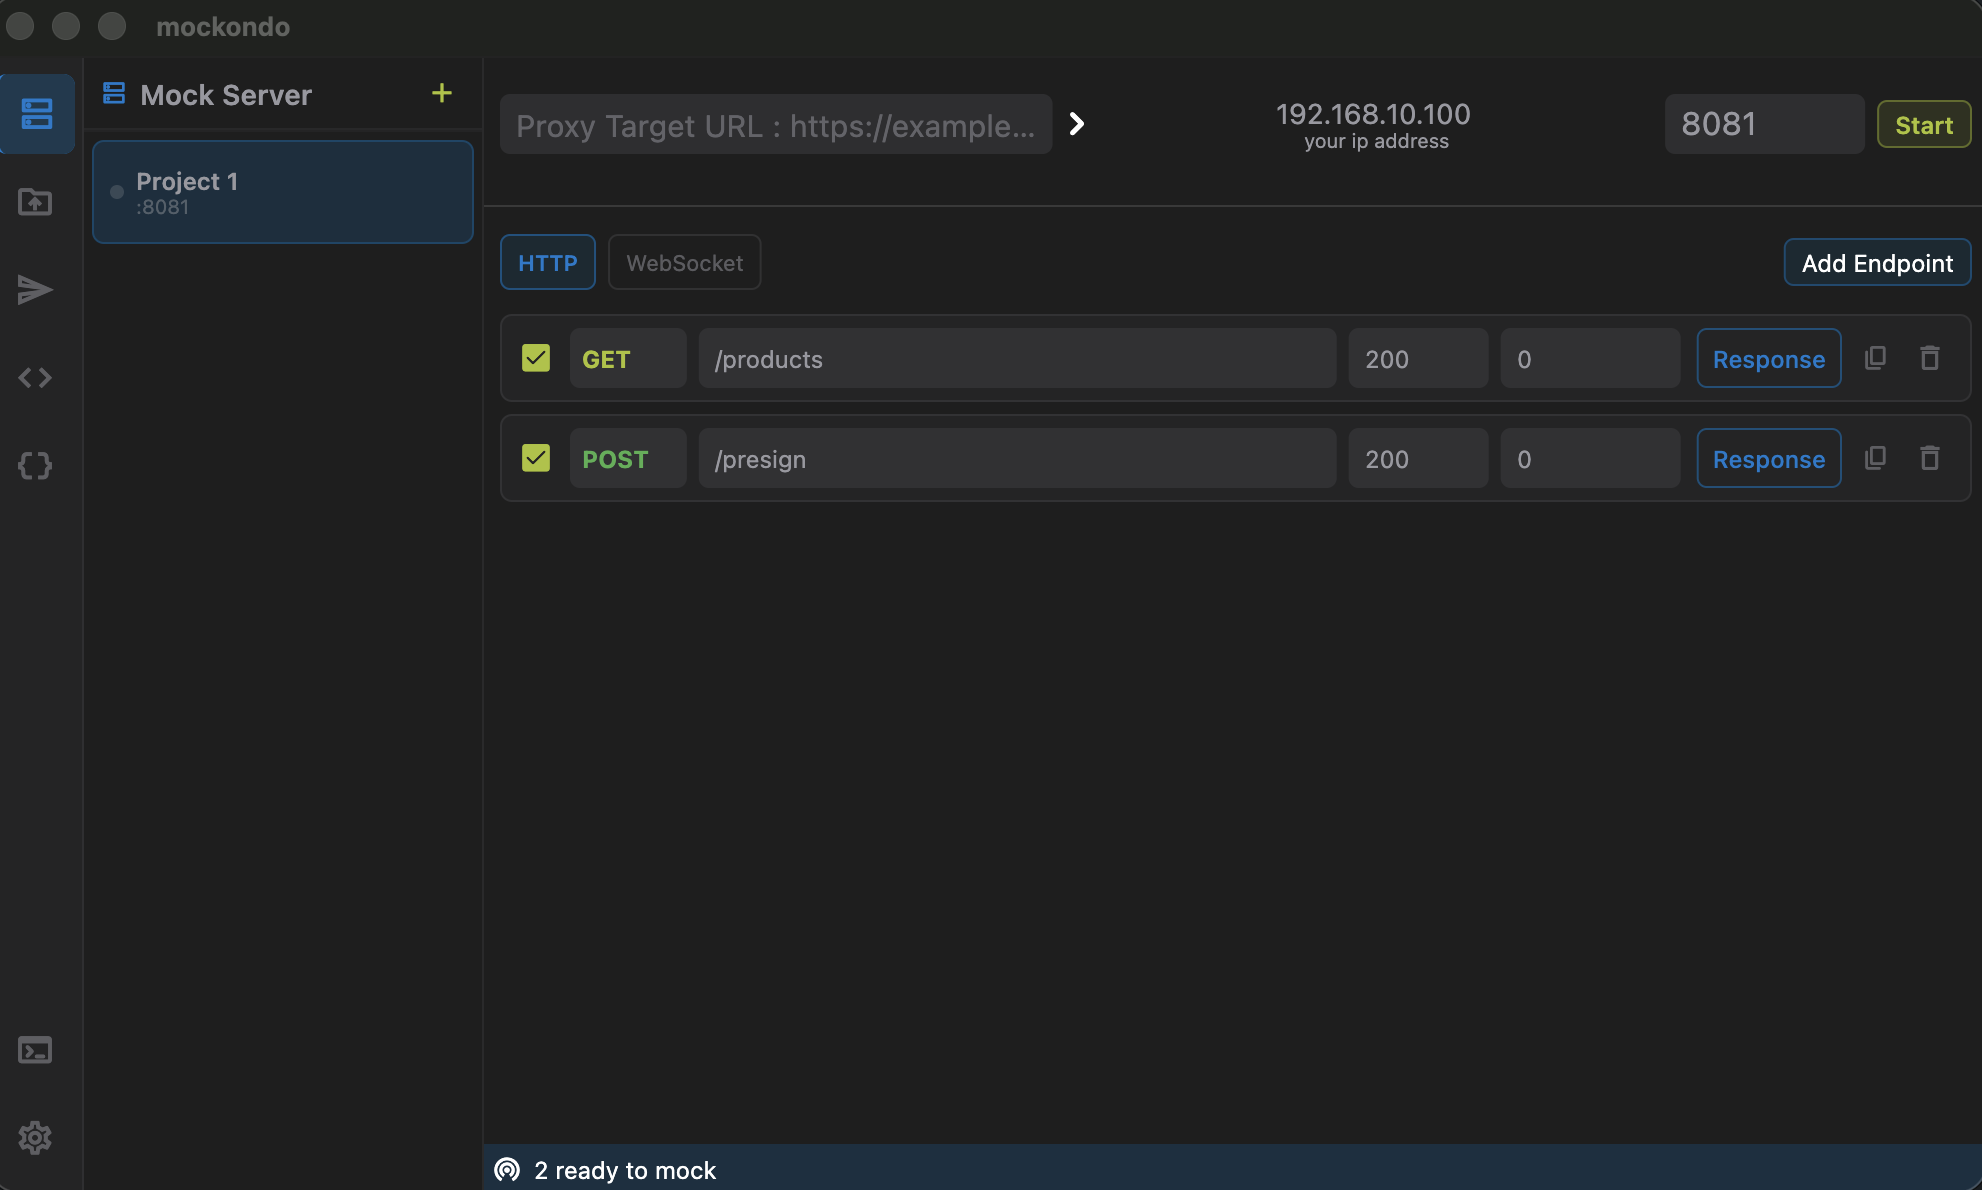
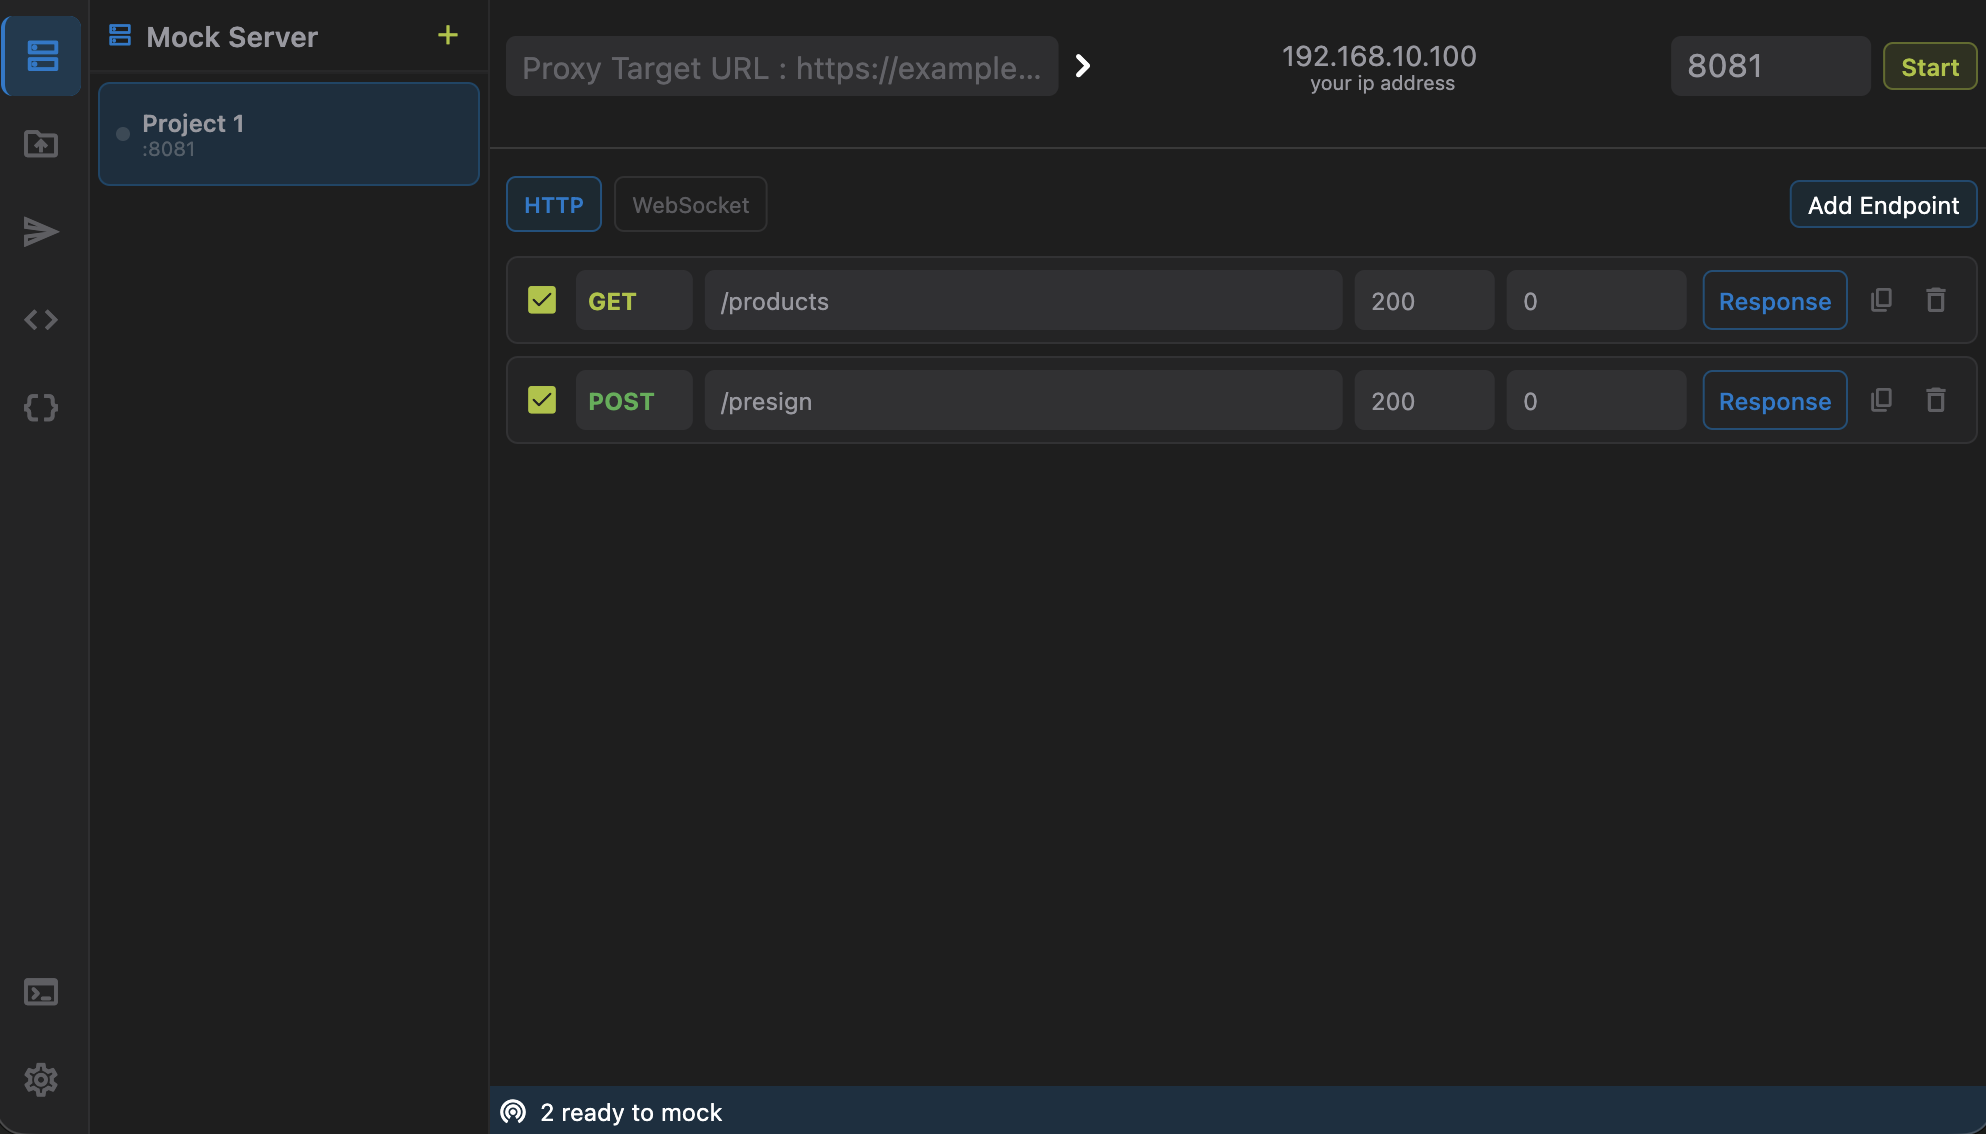
feat: update landing page with new screenshot and enhance animation effects

diff --git a/app/page.tsx b/app/page.tsx
@@ -1,14 +1,12 @@
 'use client';
 
-import { AnimatePresence, motion } from 'framer-motion';
-
+import { motion } from 'framer-motion';
 import {
   Server, Radio, HardDrive, FileUp, FileDown,
   WifiOff, Braces, Download, ArrowRight, Github,
   ExternalLink, Layers, Send, Bot,
 } from 'lucide-react';
 import Link from 'next/link';
-import Slider from './slider';
 
 const features = [
   { icon: Server,    title: 'Mock HTTP Server',         desc: 'Define endpoints, status codes, headers, and response bodies with zero backend code.' },
@@ -116,7 +114,24 @@ export default function Page() {
           </motion.div>
 
           {/* Screenshot */}
-          <Slider />
+          <motion.div
+            initial={{ opacity: 0, y: 32 }}
+            animate={{ opacity: 1, y: 0 }}
+            transition={{ delay: 0.2, duration: 0.6 }}
+            className="mt-20 relative"
+          >
+            <div className="rounded-xl overflow-hidden border border-white/8 shadow-2xl shadow-black/60">
+              <div className="bg-[#1a1a1a] px-4 py-2.5 flex items-center gap-1.5 border-b border-white/6">
+                <div className="w-2.5 h-2.5 rounded-full bg-[#ff5f57]" />
+                <div className="w-2.5 h-2.5 rounded-full bg-[#febc2e]" />
+                <div className="w-2.5 h-2.5 rounded-full bg-[#28c840]" />
+                <span className="ml-3 text-xs text-[#555]">Mockondo</span>
+              </div>
+              <img src="/screenshot/mock_http.png" alt="Mockondo app" className="w-full" />
+            </div>
+            {/* subtle glow under screenshot */}
+            <div className="absolute -bottom-8 left-1/2 -translate-x-1/2 w-3/4 h-24 bg-[#007acc]/10 blur-3xl rounded-full" />
+          </motion.div>
         </section>
 
         {/* Features */}
